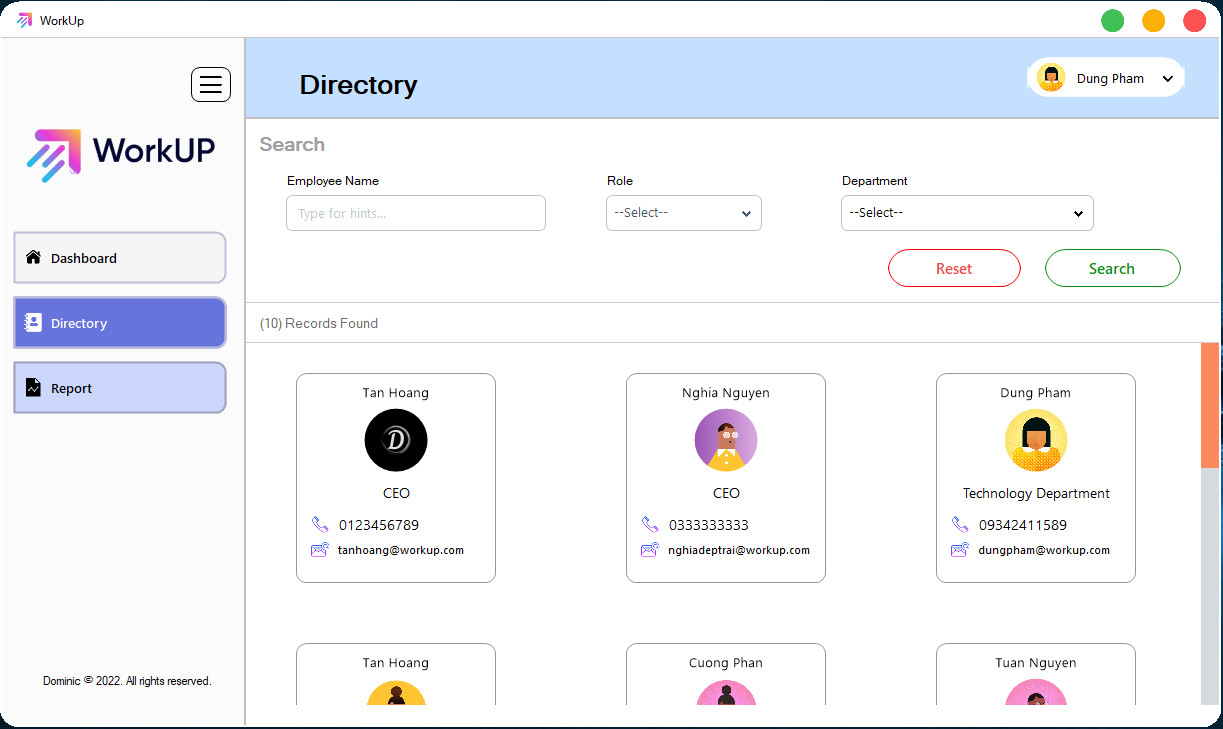
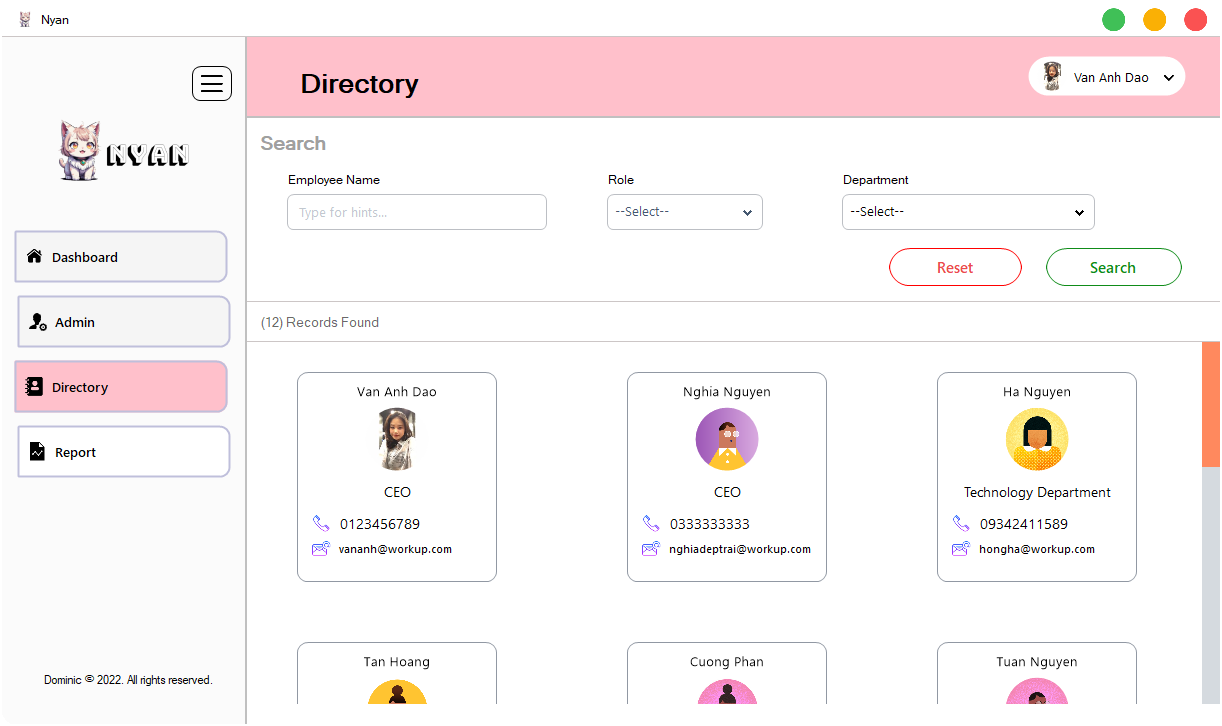
Update Readme Girl Design

diff --git a/README.md b/README.md
@@ -43,14 +43,6 @@
 
 </br>
 
-- Report
-
-<img src="./.github/image/Reportlist.jpg">
-</img>
-</br>
-
-</br>
-
 - Directory
 
 <img src="./.github/image/Directory.jpg">
@@ -90,7 +82,7 @@ git clone --depth 1 https://github.com/Dominic-github/HRM
 
 ## Dependence
 
-- [Guna Framework](https://gunaui.com/)
+- [Guna Framework 2.0.3.5](https://www.nuget.org/packages/Guna.UI2.WinForms/2.0.3.5)
 
 <div id="support"/>
 
